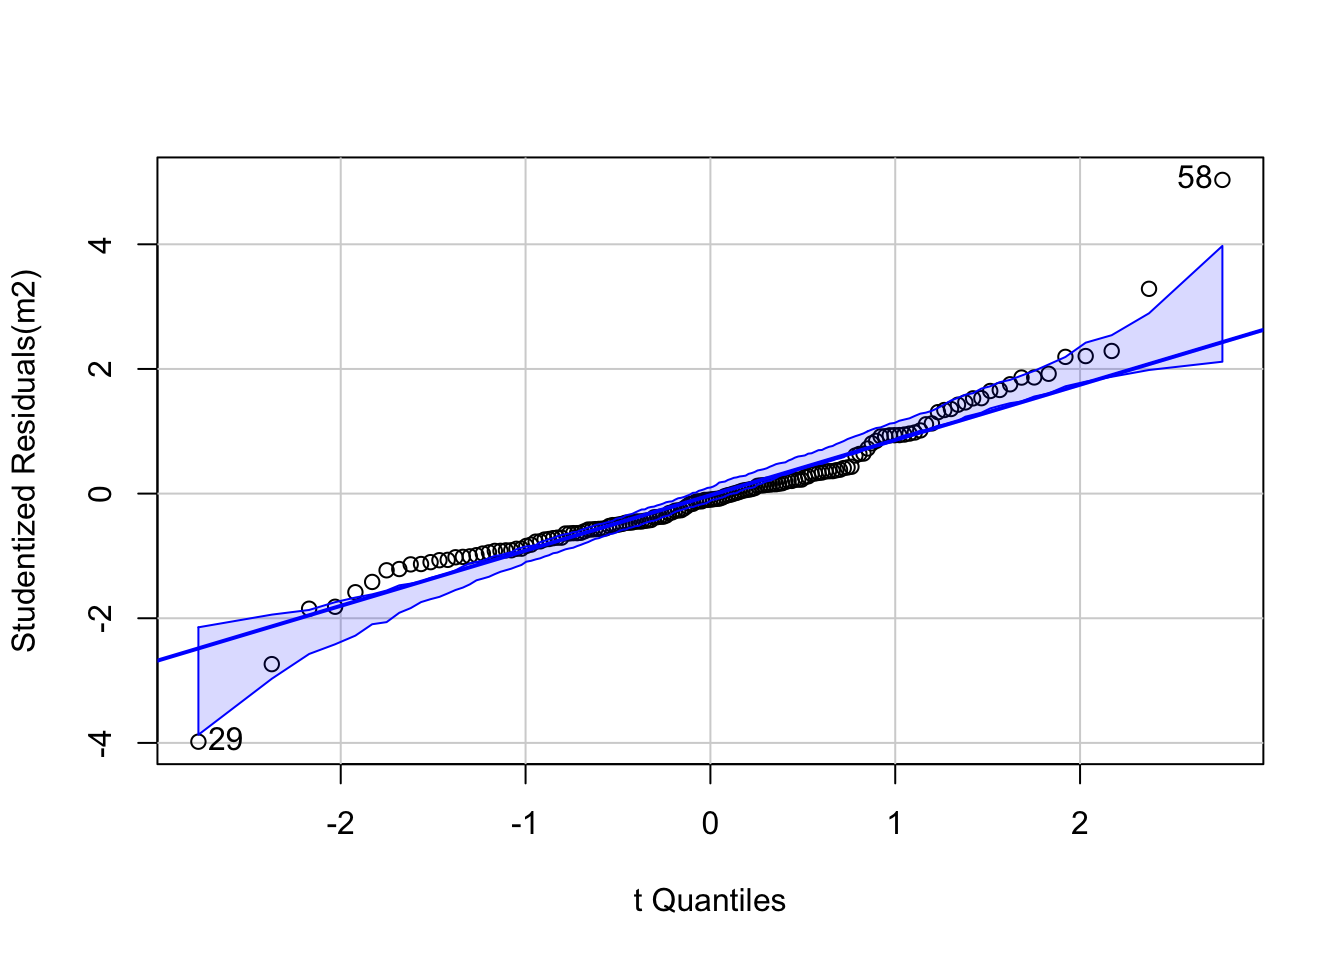
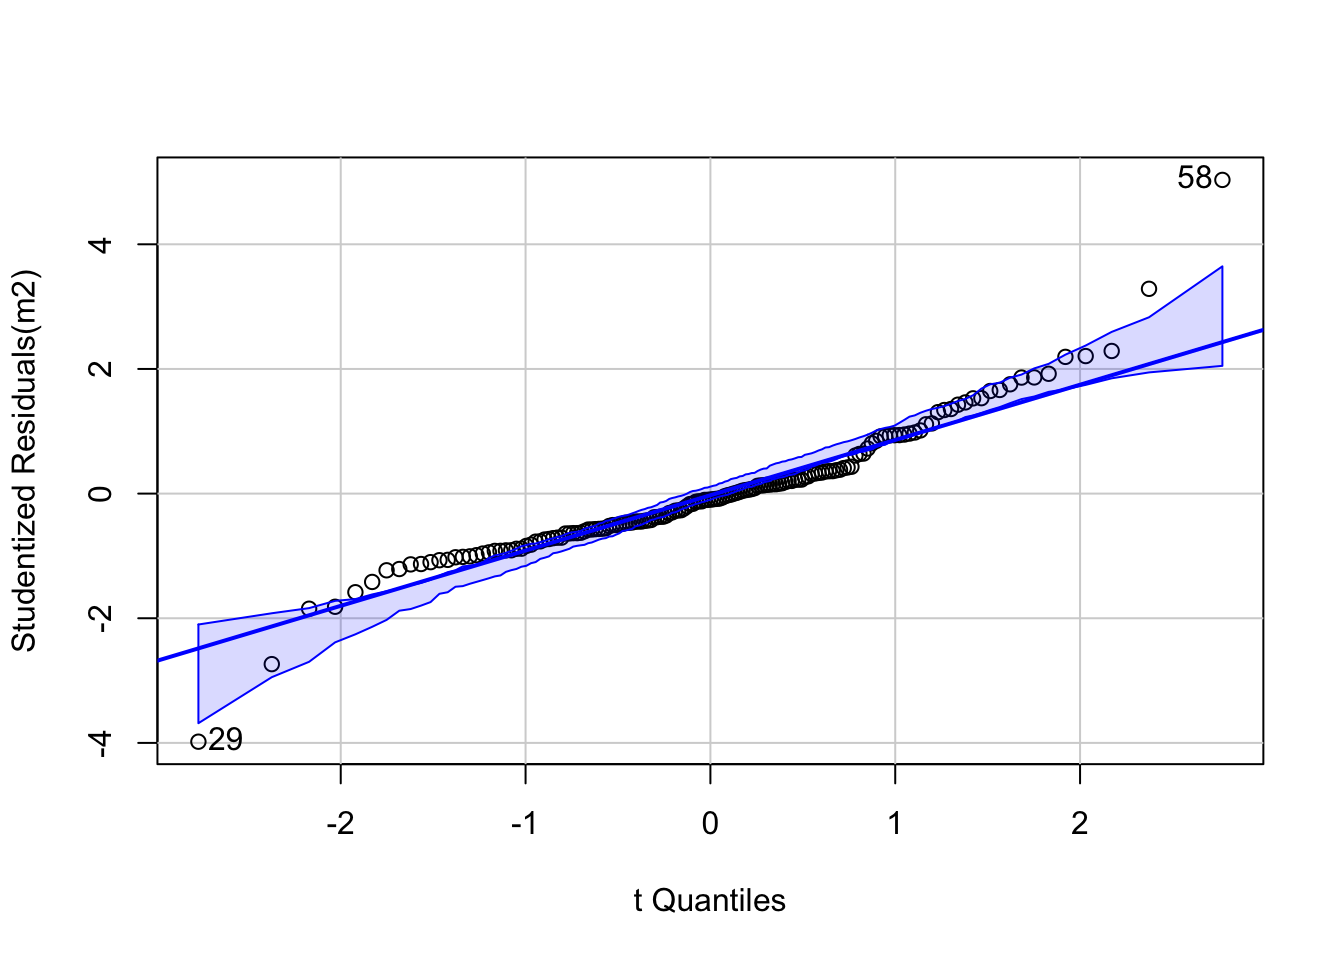
Update practicals and rebuild website

diff --git a/docs/spatial-varying-coefficient-models.html b/docs/spatial-varying-coefficient-models.html
@@ -23,7 +23,7 @@
 <meta name="author" content="Lex Comber" />
 
 
-<meta name="date" content="2026-10-16" />
+<meta name="date" content="2026-11-18" />
 
   <meta name="viewport" content="width=device-width, initial-scale=1" />
   <meta name="apple-mobile-web-app-capable" content="yes" />
@@ -485,7 +485,7 @@ y = \beta_{0_(u_i, v_i)} + \sum_{m}^{k=1}\beta_{k}x_{ik_{(u_i, v_i)}} + \epsilon
 <pre><code>##    ***********************************************************************
 ##    *                       Package   GWmodel                             *
 ##    ***********************************************************************
-##    Program starts at: 2026-10-16 13:41:51.771343 
+##    Program starts at: 2026-11-18 11:19:31.653794 
 ##    Call:
 ##    gwr.basic(formula = MedInc ~ PctBach + PctEld + PctFB, data = georgia, 
 ##     bw = bw, adaptive = T)
@@ -551,7 +551,7 @@ y = \beta_{0_(u_i, v_i)} + \sum_{m}^{k=1}\beta_{k}x_{ik_{(u_i, v_i)}} + \epsilon
 ##    Adjusted R-square value:  0.7174802 
 ## 
 ##    ***********************************************************************
-##    Program stops at: 2026-10-16 13:41:51.781603</code></pre>
+##    Program stops at: 2026-11-18 11:19:31.669323</code></pre>
 <p>The printout gives quite a lot of information: the standard OLS regression model, a summary of the GWR coefficients and a whole range of fit measures (<span class="math inline">\(R^2\)</span>, AIC, BIC).</p>
 </div>
 <div id="evaluating-the-results" class="section level3 hasAnchor" number="6.2.3">
@@ -1158,6 +1158,7 @@ The function below takes three inputs:</p>
 <li><code>x</code> an <code>sf</code> object with the GWR coefficients</li>
 <li><code>var_name</code> the name of a variable in the GWR output</li>
 <li><code>vr_name_TV</code> the name of the t-values for the variable in the GWR output</li>
+<li>notice the need to specify the <code>.data[[var_name]]</code> in the mapping aesthetics!</li>
 </ul>
 <div class="sourceCode" id="cb59"><pre class="sourceCode r"><code class="sourceCode r"><span id="cb59-1"><a href="spatial-varying-coefficient-models.html#cb59-1" tabindex="-1"></a>my_map_signif_coefs_func <span class="ot">=</span> <span class="cf">function</span>(x, var_name, var_name_TV) {</span>
 <span id="cb59-2"><a href="spatial-varying-coefficient-models.html#cb59-2" tabindex="-1"></a>  <span class="co"># determine which are significant</span></span>
@@ -1166,17 +1167,16 @@ The function below takes three inputs:</p>
 <span id="cb59-5"><a href="spatial-varying-coefficient-models.html#cb59-5" tabindex="-1"></a>  <span class="co"># map the counties</span></span>
 <span id="cb59-6"><a href="spatial-varying-coefficient-models.html#cb59-6" tabindex="-1"></a>  p_out <span class="ot">=</span> </span>
 <span id="cb59-7"><a href="spatial-varying-coefficient-models.html#cb59-7" tabindex="-1"></a>    <span class="fu">ggplot</span>(x) <span class="sc">+</span></span>
-<span id="cb59-8"><a href="spatial-varying-coefficient-models.html#cb59-8" tabindex="-1"></a>    <span class="fu">geom_sf</span>(<span class="fu">aes</span>(<span class="at">fill =</span> PctBach), <span class="at">col =</span> <span class="cn">NA</span>) <span class="sc">+</span></span>
+<span id="cb59-8"><a href="spatial-varying-coefficient-models.html#cb59-8" tabindex="-1"></a>    <span class="fu">geom_sf</span>(<span class="fu">aes</span>(<span class="at">fill =</span> .data[[var_name]]), <span class="at">col =</span> <span class="cn">NA</span>) <span class="sc">+</span></span>
 <span id="cb59-9"><a href="spatial-varying-coefficient-models.html#cb59-9" tabindex="-1"></a>    <span class="fu">scale_fill_gradient2</span>(<span class="at">low =</span> <span class="st">&quot;red&quot;</span>, <span class="at">high =</span> <span class="st">&quot;blue&quot;</span>) <span class="sc">+</span></span>
 <span id="cb59-10"><a href="spatial-varying-coefficient-models.html#cb59-10" tabindex="-1"></a>    <span class="fu">theme_minimal</span>() <span class="sc">+</span></span>
 <span id="cb59-11"><a href="spatial-varying-coefficient-models.html#cb59-11" tabindex="-1"></a>    <span class="co"># now add the tvalues layer</span></span>
 <span id="cb59-12"><a href="spatial-varying-coefficient-models.html#cb59-12" tabindex="-1"></a>    <span class="fu">geom_sf</span>(<span class="at">data =</span> x[signif,], <span class="at">fill =</span> <span class="cn">NA</span>, <span class="at">col =</span> <span class="st">&quot;black&quot;</span>)</span>
 <span id="cb59-13"><a href="spatial-varying-coefficient-models.html#cb59-13" tabindex="-1"></a>  <span class="co"># return the output</span></span>
 <span id="cb59-14"><a href="spatial-varying-coefficient-models.html#cb59-14" tabindex="-1"></a>  <span class="fu">return</span>(p_out)</span>
-<span id="cb59-15"><a href="spatial-varying-coefficient-models.html#cb59-15" tabindex="-1"></a>}</span></code></pre></div>
-<p>Test it!</p>
-<div class="sourceCode" id="cb60"><pre class="sourceCode r"><code class="sourceCode r"><span id="cb60-1"><a href="spatial-varying-coefficient-models.html#cb60-1" tabindex="-1"></a><span class="fu">my_map_signif_coefs_func</span>(<span class="at">x =</span> gwr_sf, <span class="at">var_name =</span> <span class="st">&quot;PctFB&quot;</span>, <span class="at">var_name_TV =</span> <span class="st">&quot;PctFB_TV&quot;</span>)</span>
-<span id="cb60-2"><a href="spatial-varying-coefficient-models.html#cb60-2" tabindex="-1"></a><span class="fu">my_map_signif_coefs_func</span>(<span class="at">x =</span> mgwr_sf, <span class="at">var_name =</span> <span class="st">&quot;PctFB&quot;</span>, <span class="at">var_name_TV =</span> <span class="st">&quot;PctBach_TV&quot;</span>)</span></code></pre></div>
+<span id="cb59-15"><a href="spatial-varying-coefficient-models.html#cb59-15" tabindex="-1"></a>}</span>
+<span id="cb59-16"><a href="spatial-varying-coefficient-models.html#cb59-16" tabindex="-1"></a><span class="fu">my_map_signif_coefs_func</span>(<span class="at">x =</span> gwr_sf, <span class="at">var_name =</span> <span class="st">&quot;PctFB&quot;</span>, <span class="at">var_name_TV =</span> <span class="st">&quot;PctFB_TV&quot;</span>)</span>
+<span id="cb59-17"><a href="spatial-varying-coefficient-models.html#cb59-17" tabindex="-1"></a><span class="fu">my_map_signif_coefs_func</span>(<span class="at">x =</span> mgwr_sf, <span class="at">var_name =</span> <span class="st">&quot;PctFB&quot;</span>, <span class="at">var_name_TV =</span> <span class="st">&quot;PctBach_TV&quot;</span>)</span></code></pre></div>
 </div>
 <div id="references" class="section level2 unnumbered hasAnchor">
 <h2>References<a href="spatial-varying-coefficient-models.html#references" class="anchor-section" aria-label="Anchor link to header"></a></h2>

diff --git a/docs/404.html b/docs/404.html
@@ -23,7 +23,7 @@
 <meta name="author" content="Lex Comber" />
 
 
-<meta name="date" content="2026-10-22" />
+<meta name="date" content="2026-11-18" />
 
   <meta name="viewport" content="width=device-width, initial-scale=1" />
   <meta name="apple-mobile-web-app-capable" content="yes" />

diff --git a/docs/regression.html b/docs/regression.html
@@ -23,7 +23,7 @@
 <meta name="author" content="Lex Comber" />
 
 
-<meta name="date" content="2026-10-22" />
+<meta name="date" content="2026-10-28" />
 
   <meta name="viewport" content="width=device-width, initial-scale=1" />
   <meta name="apple-mobile-web-app-capable" content="yes" />
